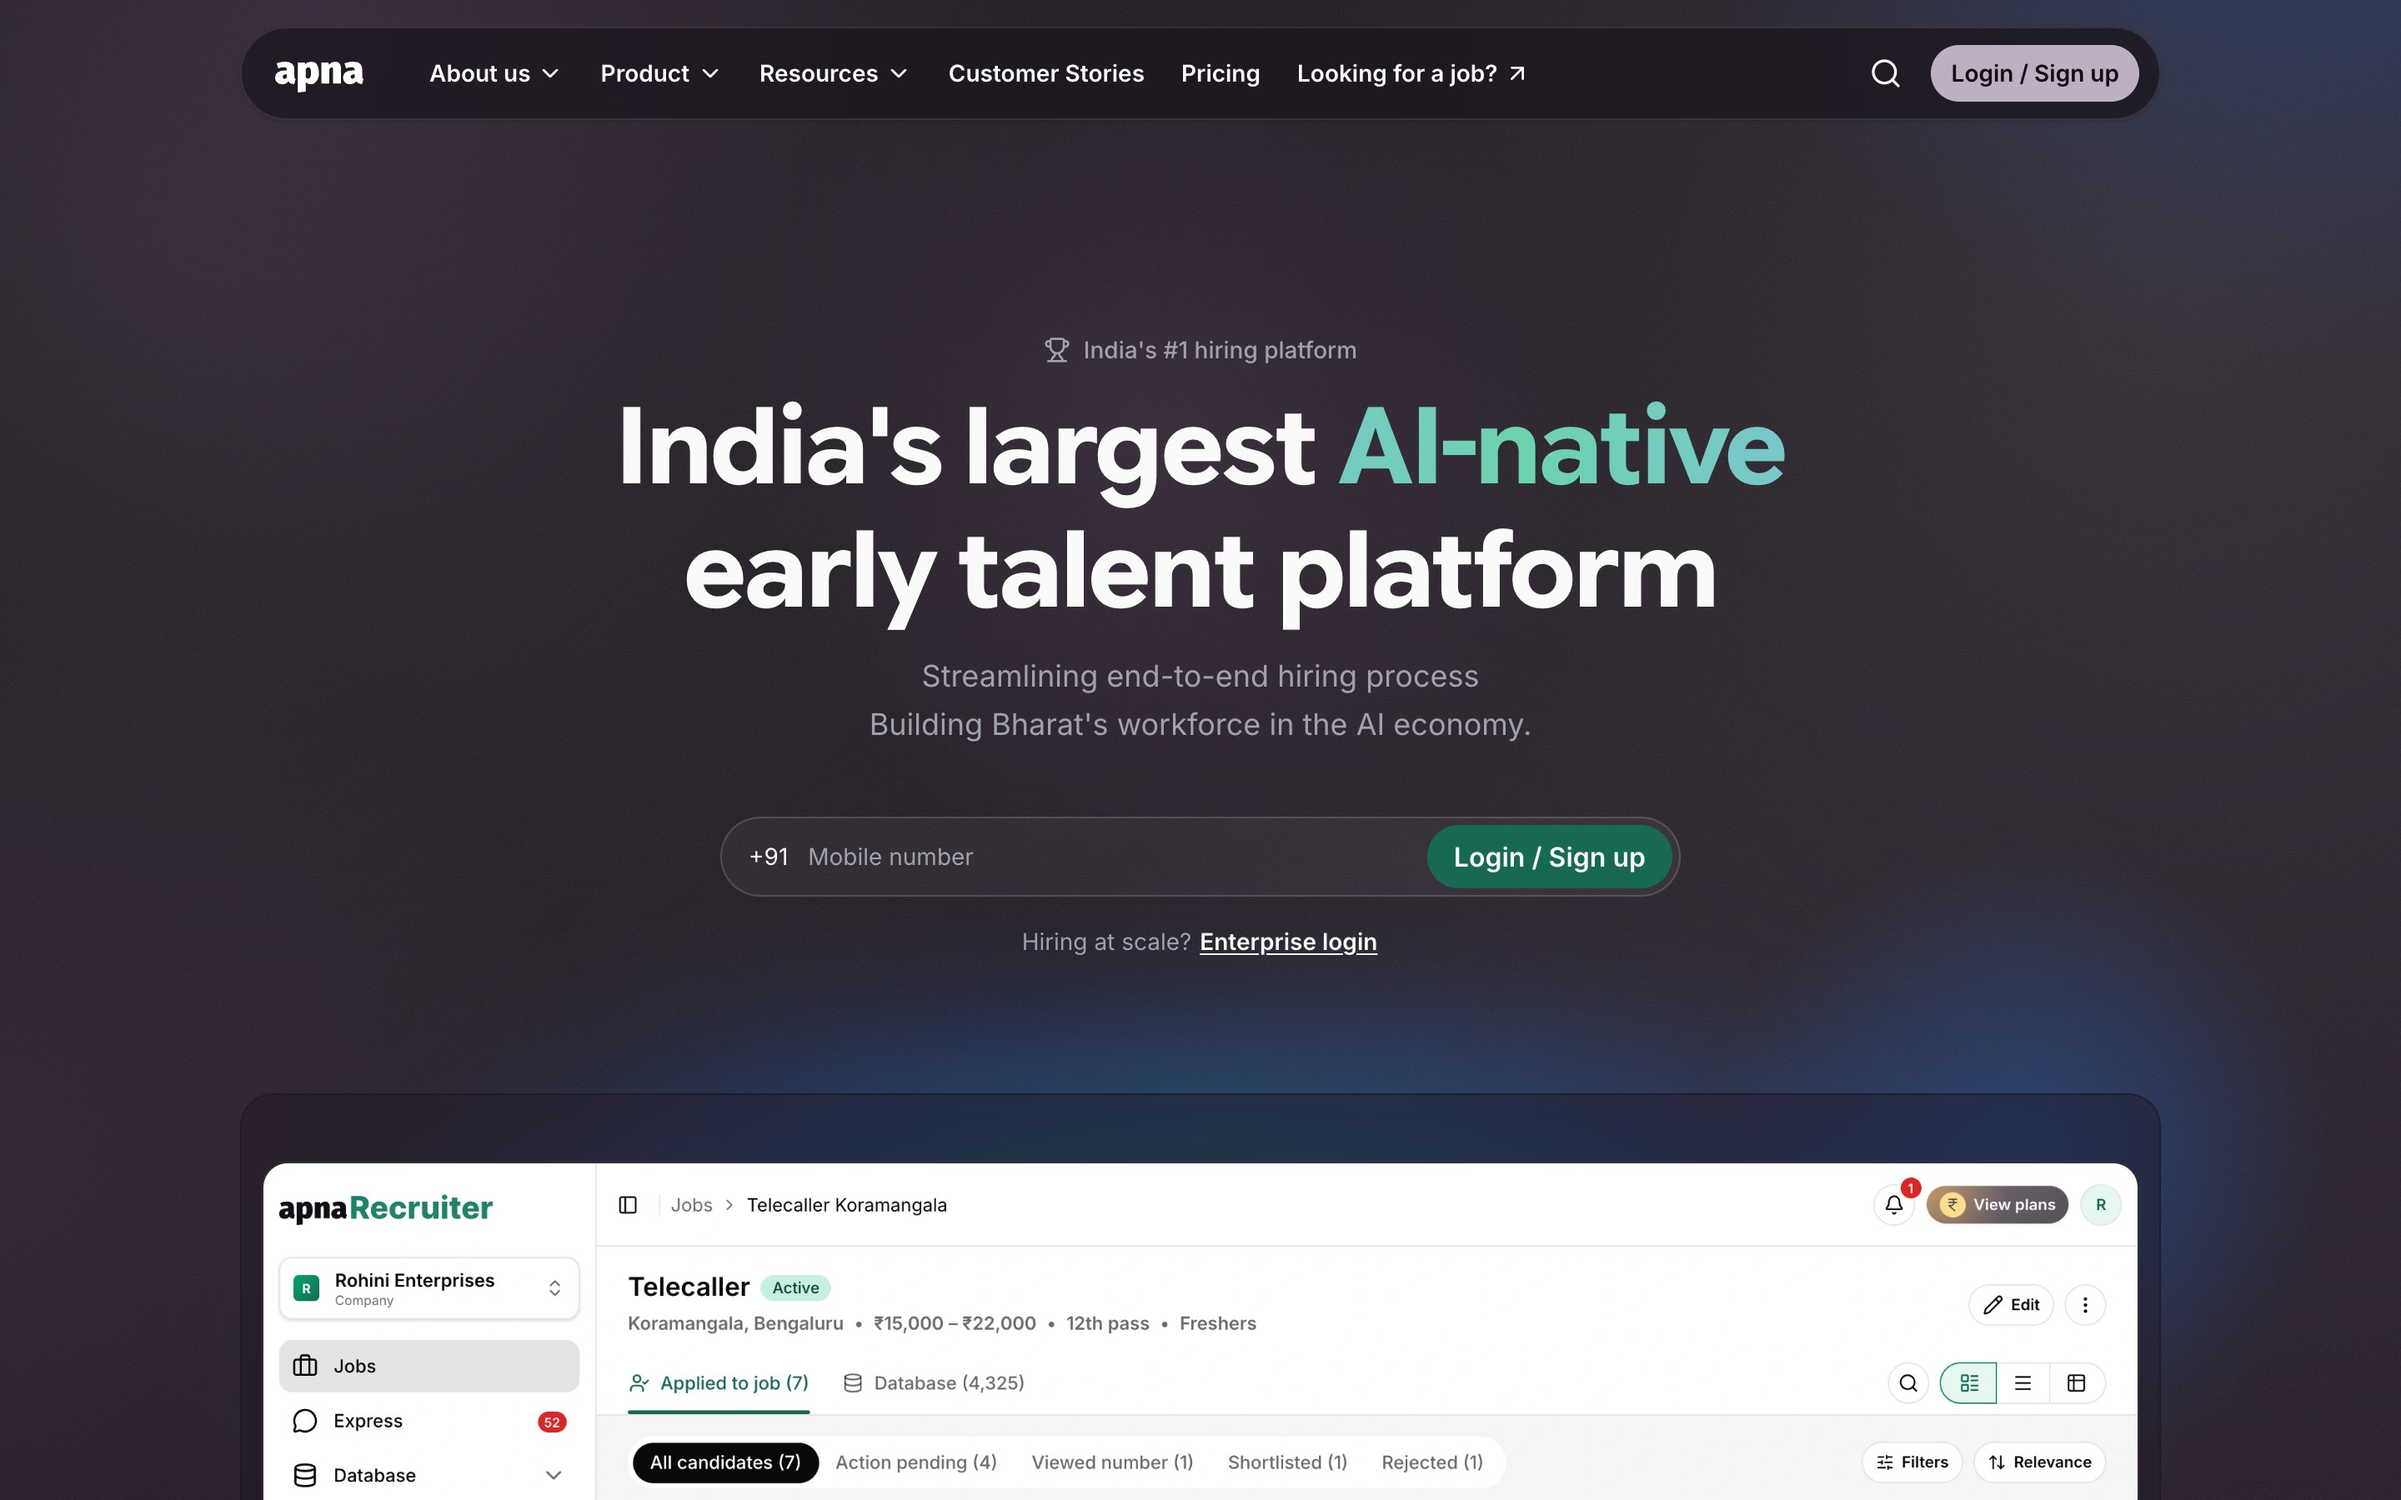
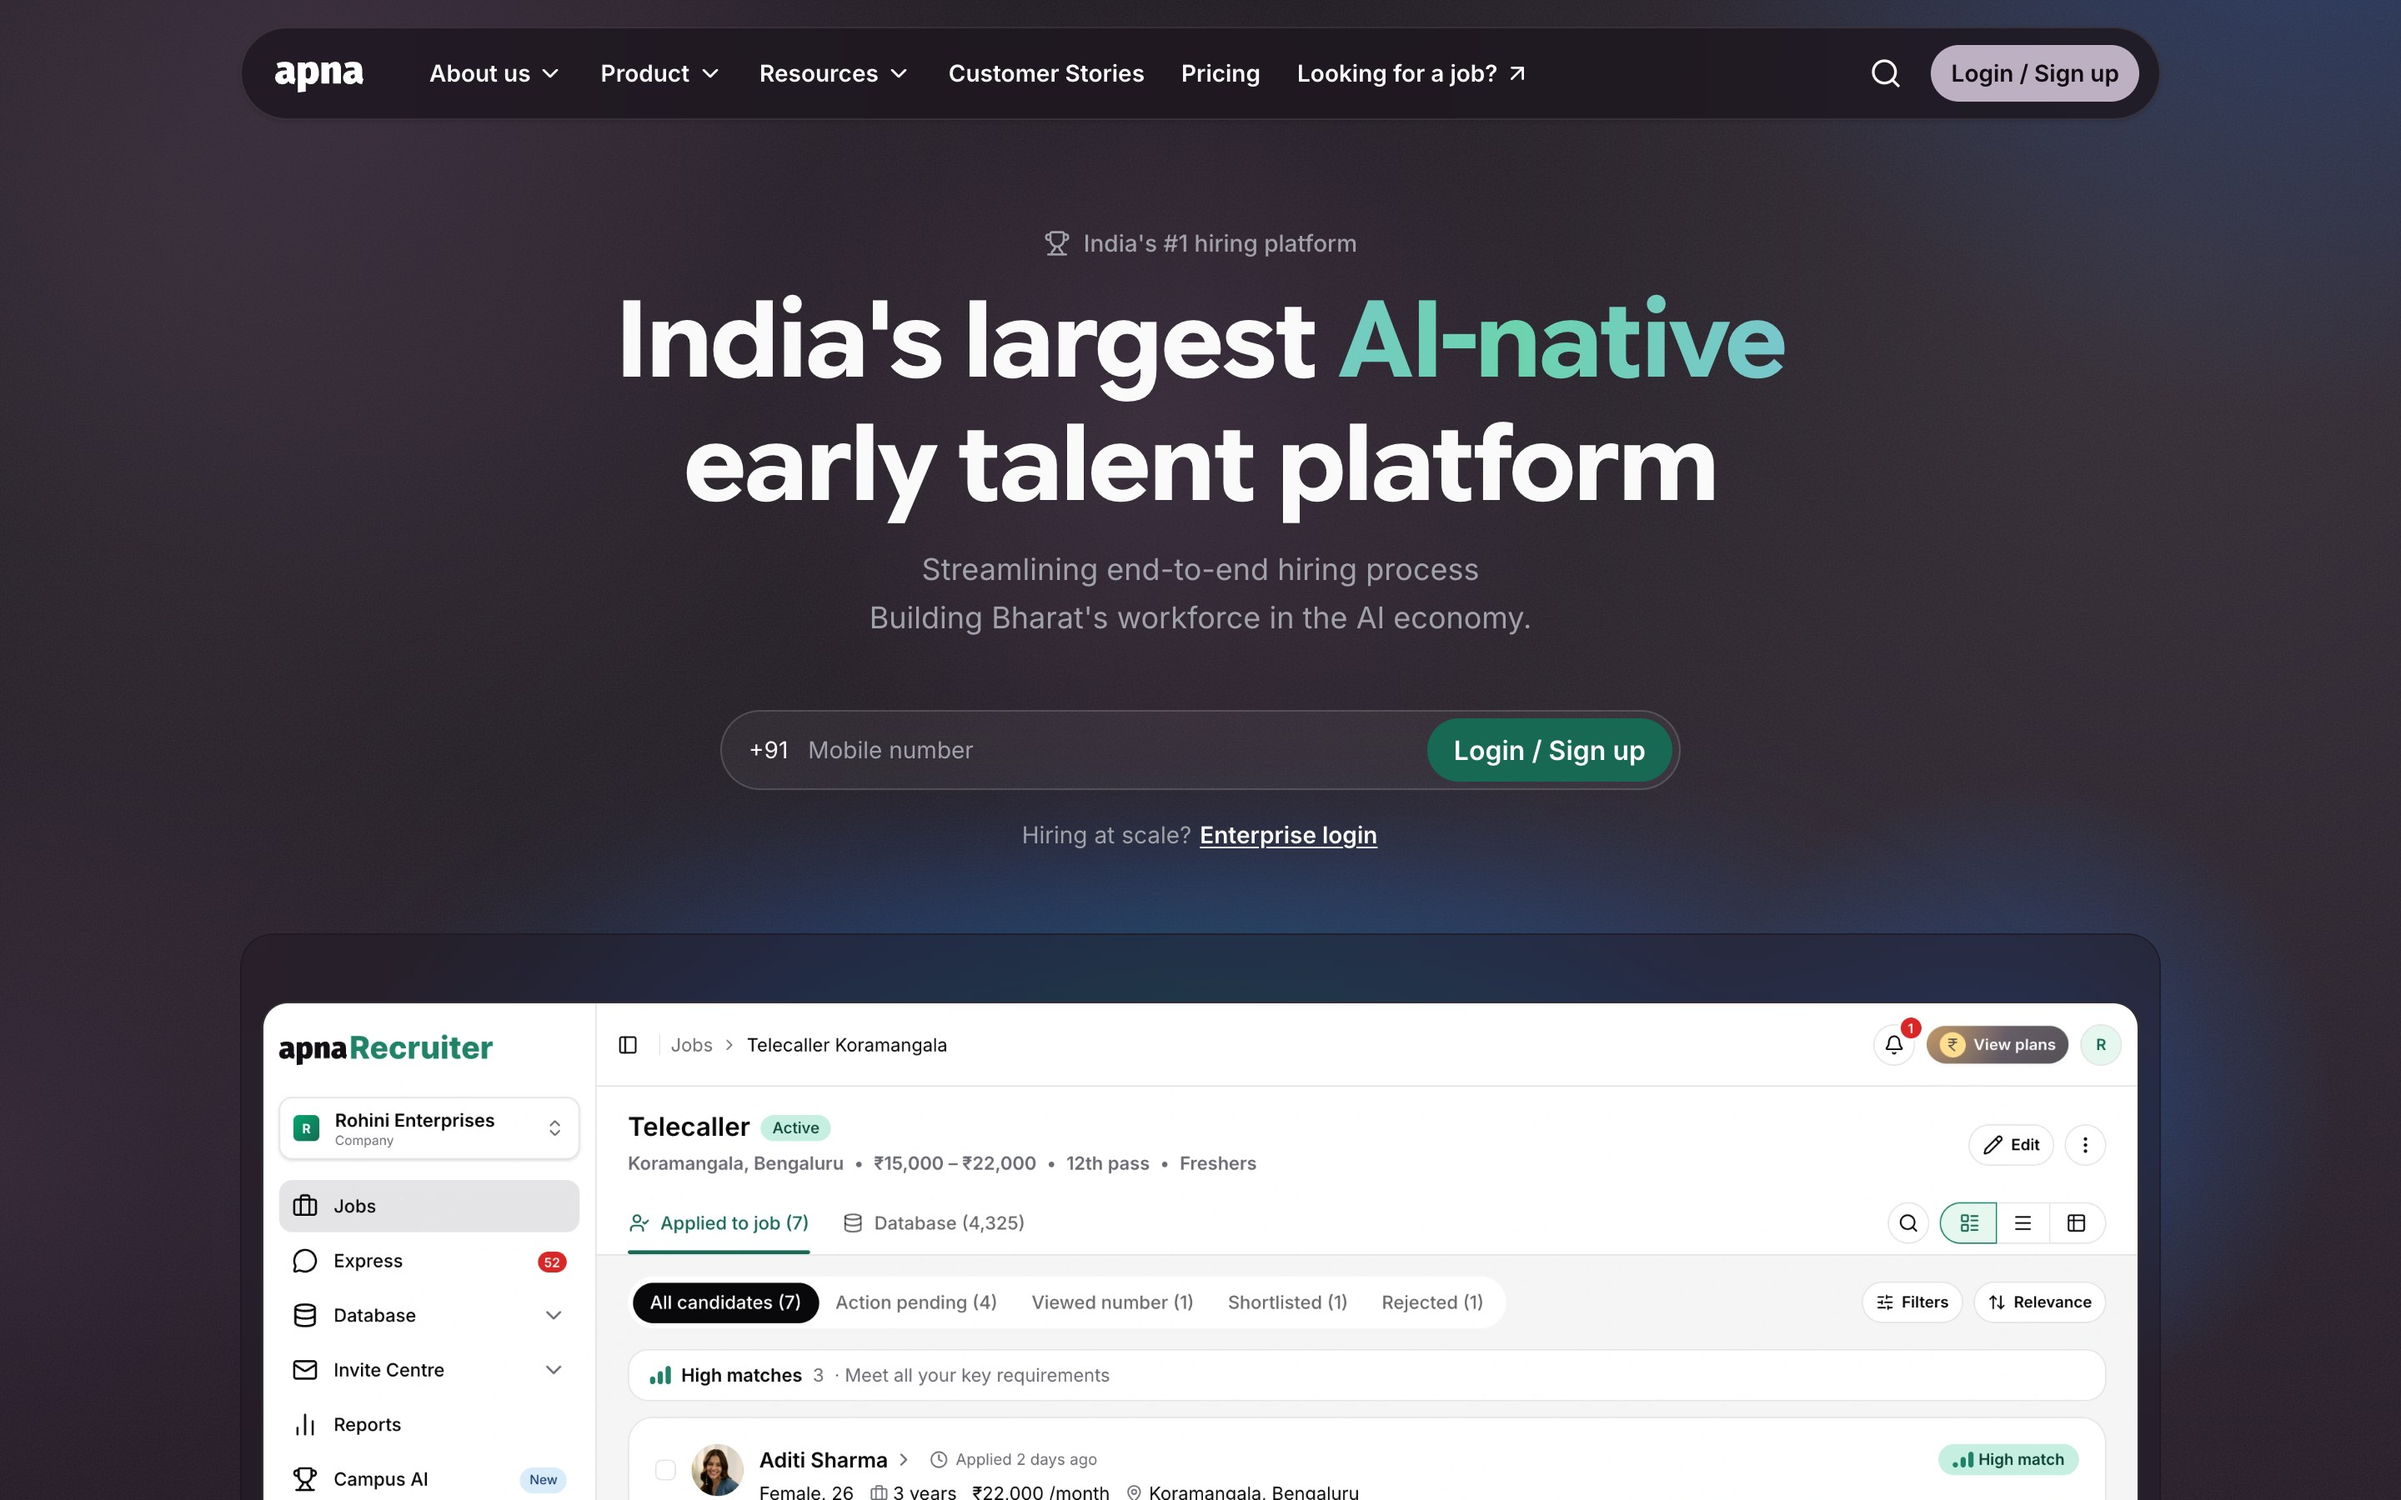
Homepage hero: tighter top and form gaps so more of the screen shows; redrawn home captures.

Changed region(s): [[0.0938, 0.1556, 0.9062, 1.0], [0.7812, 0.9022, 0.875, 0.9956], [0.5938, 0.9644, 0.625, 0.9956]]

diff --git a/src/app/(marketing)/page.tsx b/src/app/(marketing)/page.tsx
@@ -115,7 +115,7 @@ export default function HomePage() {
             view (HeroScreen), then the stats. */}
         <Section
           size="lg"
-          className={cn("relative flex flex-col pb-8 max-md:pt-6 md:pb-10", HERO_FULL_SCREEN_PHONE)}
+          className={cn("relative flex flex-col pb-8 max-md:pt-6 md:pt-16 md:pb-10", HERO_FULL_SCREEN_PHONE)}
           innerClassName="flex flex-1 flex-col"
         >
           <div className="flex flex-1 flex-col items-center gap-8 text-center md:gap-10">
@@ -156,7 +156,7 @@ export default function HomePage() {
               <HeroLeadForm />
             </div>
 
-            <HeroScreen className="mt-6 md:mt-10" />
+            <HeroScreen className="mt-6 md:mt-2" />
 
             <dl className="grid w-full grid-cols-3 gap-4 sm:flex sm:w-auto sm:flex-wrap sm:justify-center sm:gap-x-16 sm:gap-y-6">
               {HOME_HERO.stats.map((stat) => (
